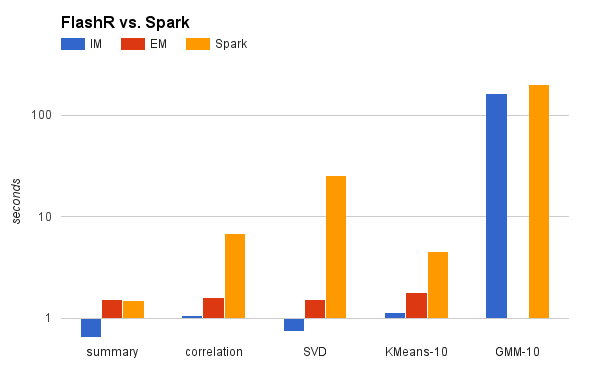
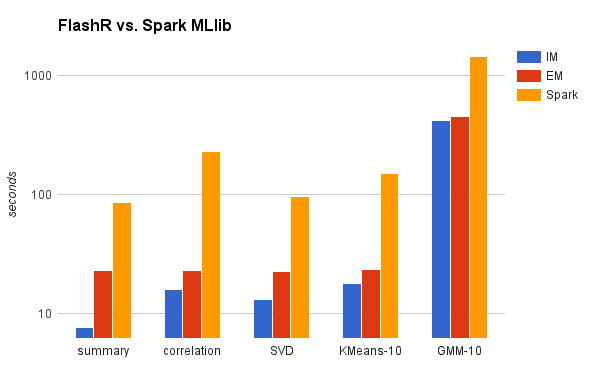
Update perf result of FlashR.

diff --git a/2016_04/index.html b/2016_04/index.html
@@ -330,15 +330,24 @@ Figure: The peak memory usage of k||means, k||means with triangle inequality pru
 
 #### gmm
 
-We implement Gaussian Mixture Model in FlashR with pure R code. The R implementation does not have any explicit parallelization in the R code and FlashR execute the code in parallel automatically and is able to scale it to very large datasets with hundreds of millions of data points. Our preliminary result shows that our R implementation outperforms the implementation in Spark MLlib.
+We implement Gaussian Mixture Model in FlashR with pure R code. The R implementation does not have any explicit parallelization in the R code and FlashR execute the code in parallel automatically and is able to scale it to very large datasets with hundreds of millions of data points. Our experiment shows that our R implementation outperforms the implementation in Spark MLlib on a large parallel machine.
 R code: https://github.com/zheng-da/FlashX/blob/dev-zd/Rpkg/R/GMM.R
 
 #### other stuff
 
 Similarly, we implement some other machine learning algorithms such as KMeans and singular value decomposition, and some statistics computation in FlashR with pure R code. All of these implementations are executed in parallel and out of core automatically in FlashR and scale to very large dense matrices. Both of their in-memory and out-of-core execution significantly outperforms the implementations in Spark MLlib.
 
+<div class="fig-container" id="fig:flashr-perf">
+<img src="https://raw.githubusercontent.com/neurodata/SIMPLEX/gh-pages/figs/imgs/FlashR.png" style="height: 300px;"/>
+The runtime of FlashR both in memory (IM) and on SSDs (EM) vs. Spark MLlib on a dataset with one billion data points.
+</div>
+
+<div class="fig-container" id="fig:flashr-mem">
+<img src="https://raw.githubusercontent.com/neurodata/SIMPLEX/gh-pages/figs/imgs/FlashR-mem.png" style="height: 300px;"/>
+The memory consumption of FlashR both in memory (IM) and on SSDs (EM) vs. Spark MLlib on a dataset with one billion data points.
+</div>
+
 - R code: https://github.com/zheng-da/FlashX/tree/dev-zd/Rpkg/R
-- Performance: https://github.com/neurodata/SIMPLEX/blob/gh-pages/Q4/imgs/FlashR.png
 - Tutorial of FlashR: https://github.com/zheng-da/FlashX/wiki/FlashR-programming-tutorial
 
 # Statistical Science
